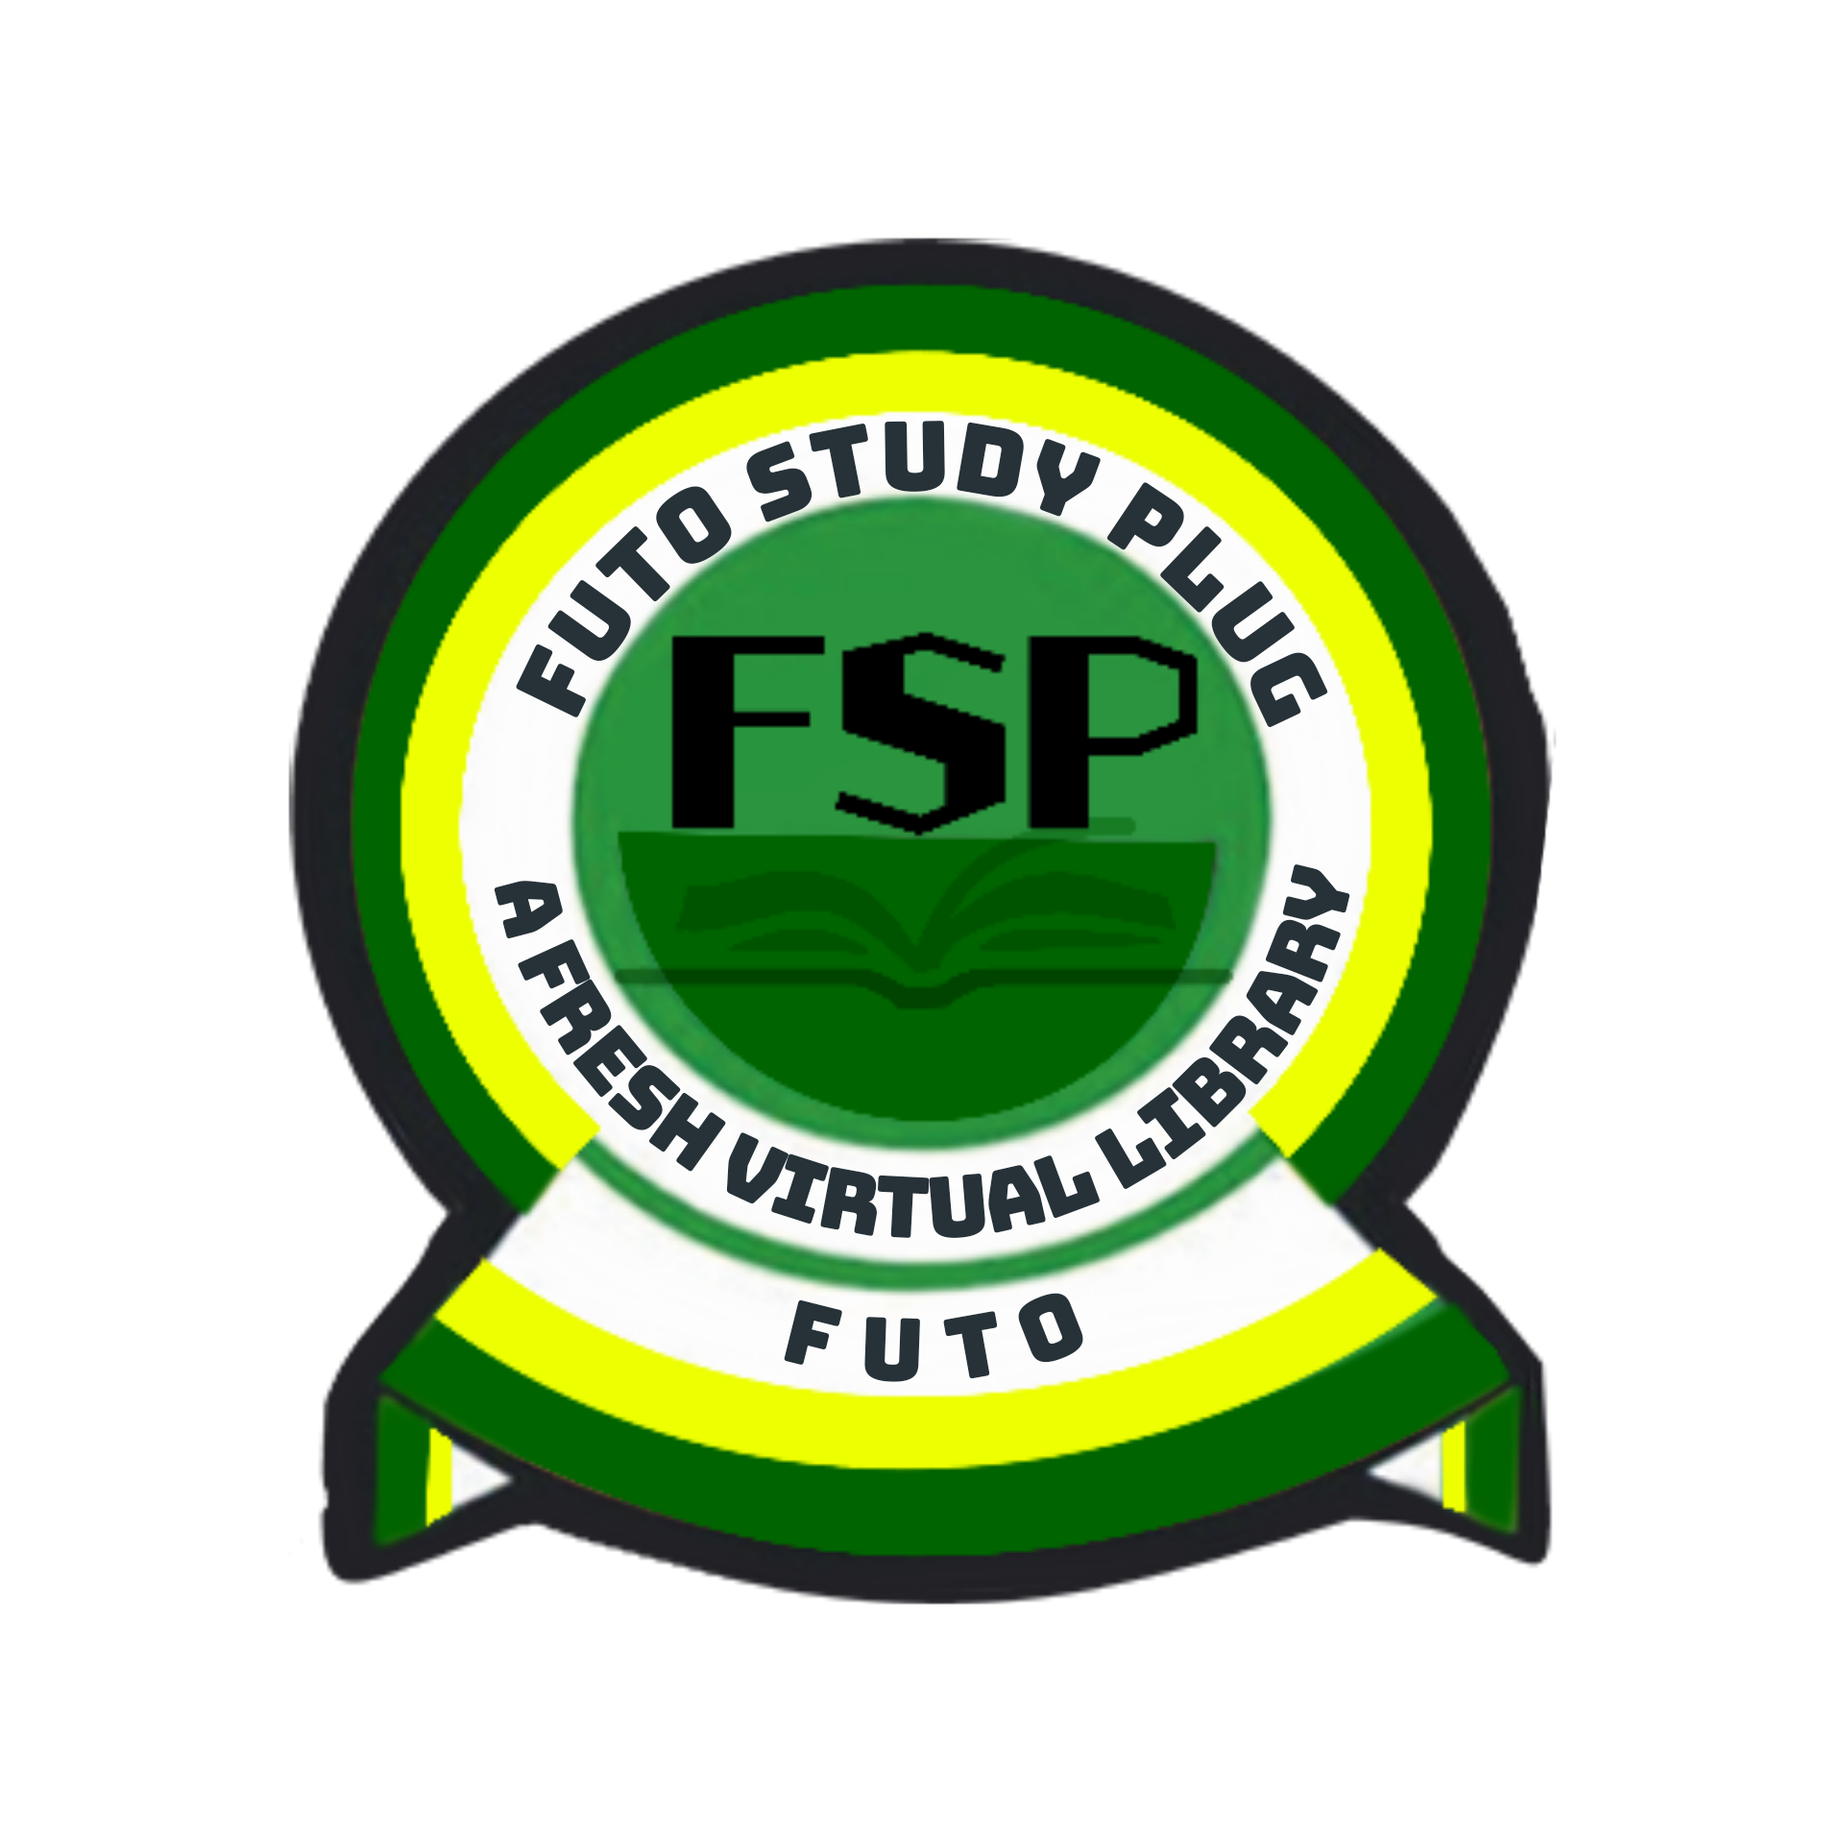
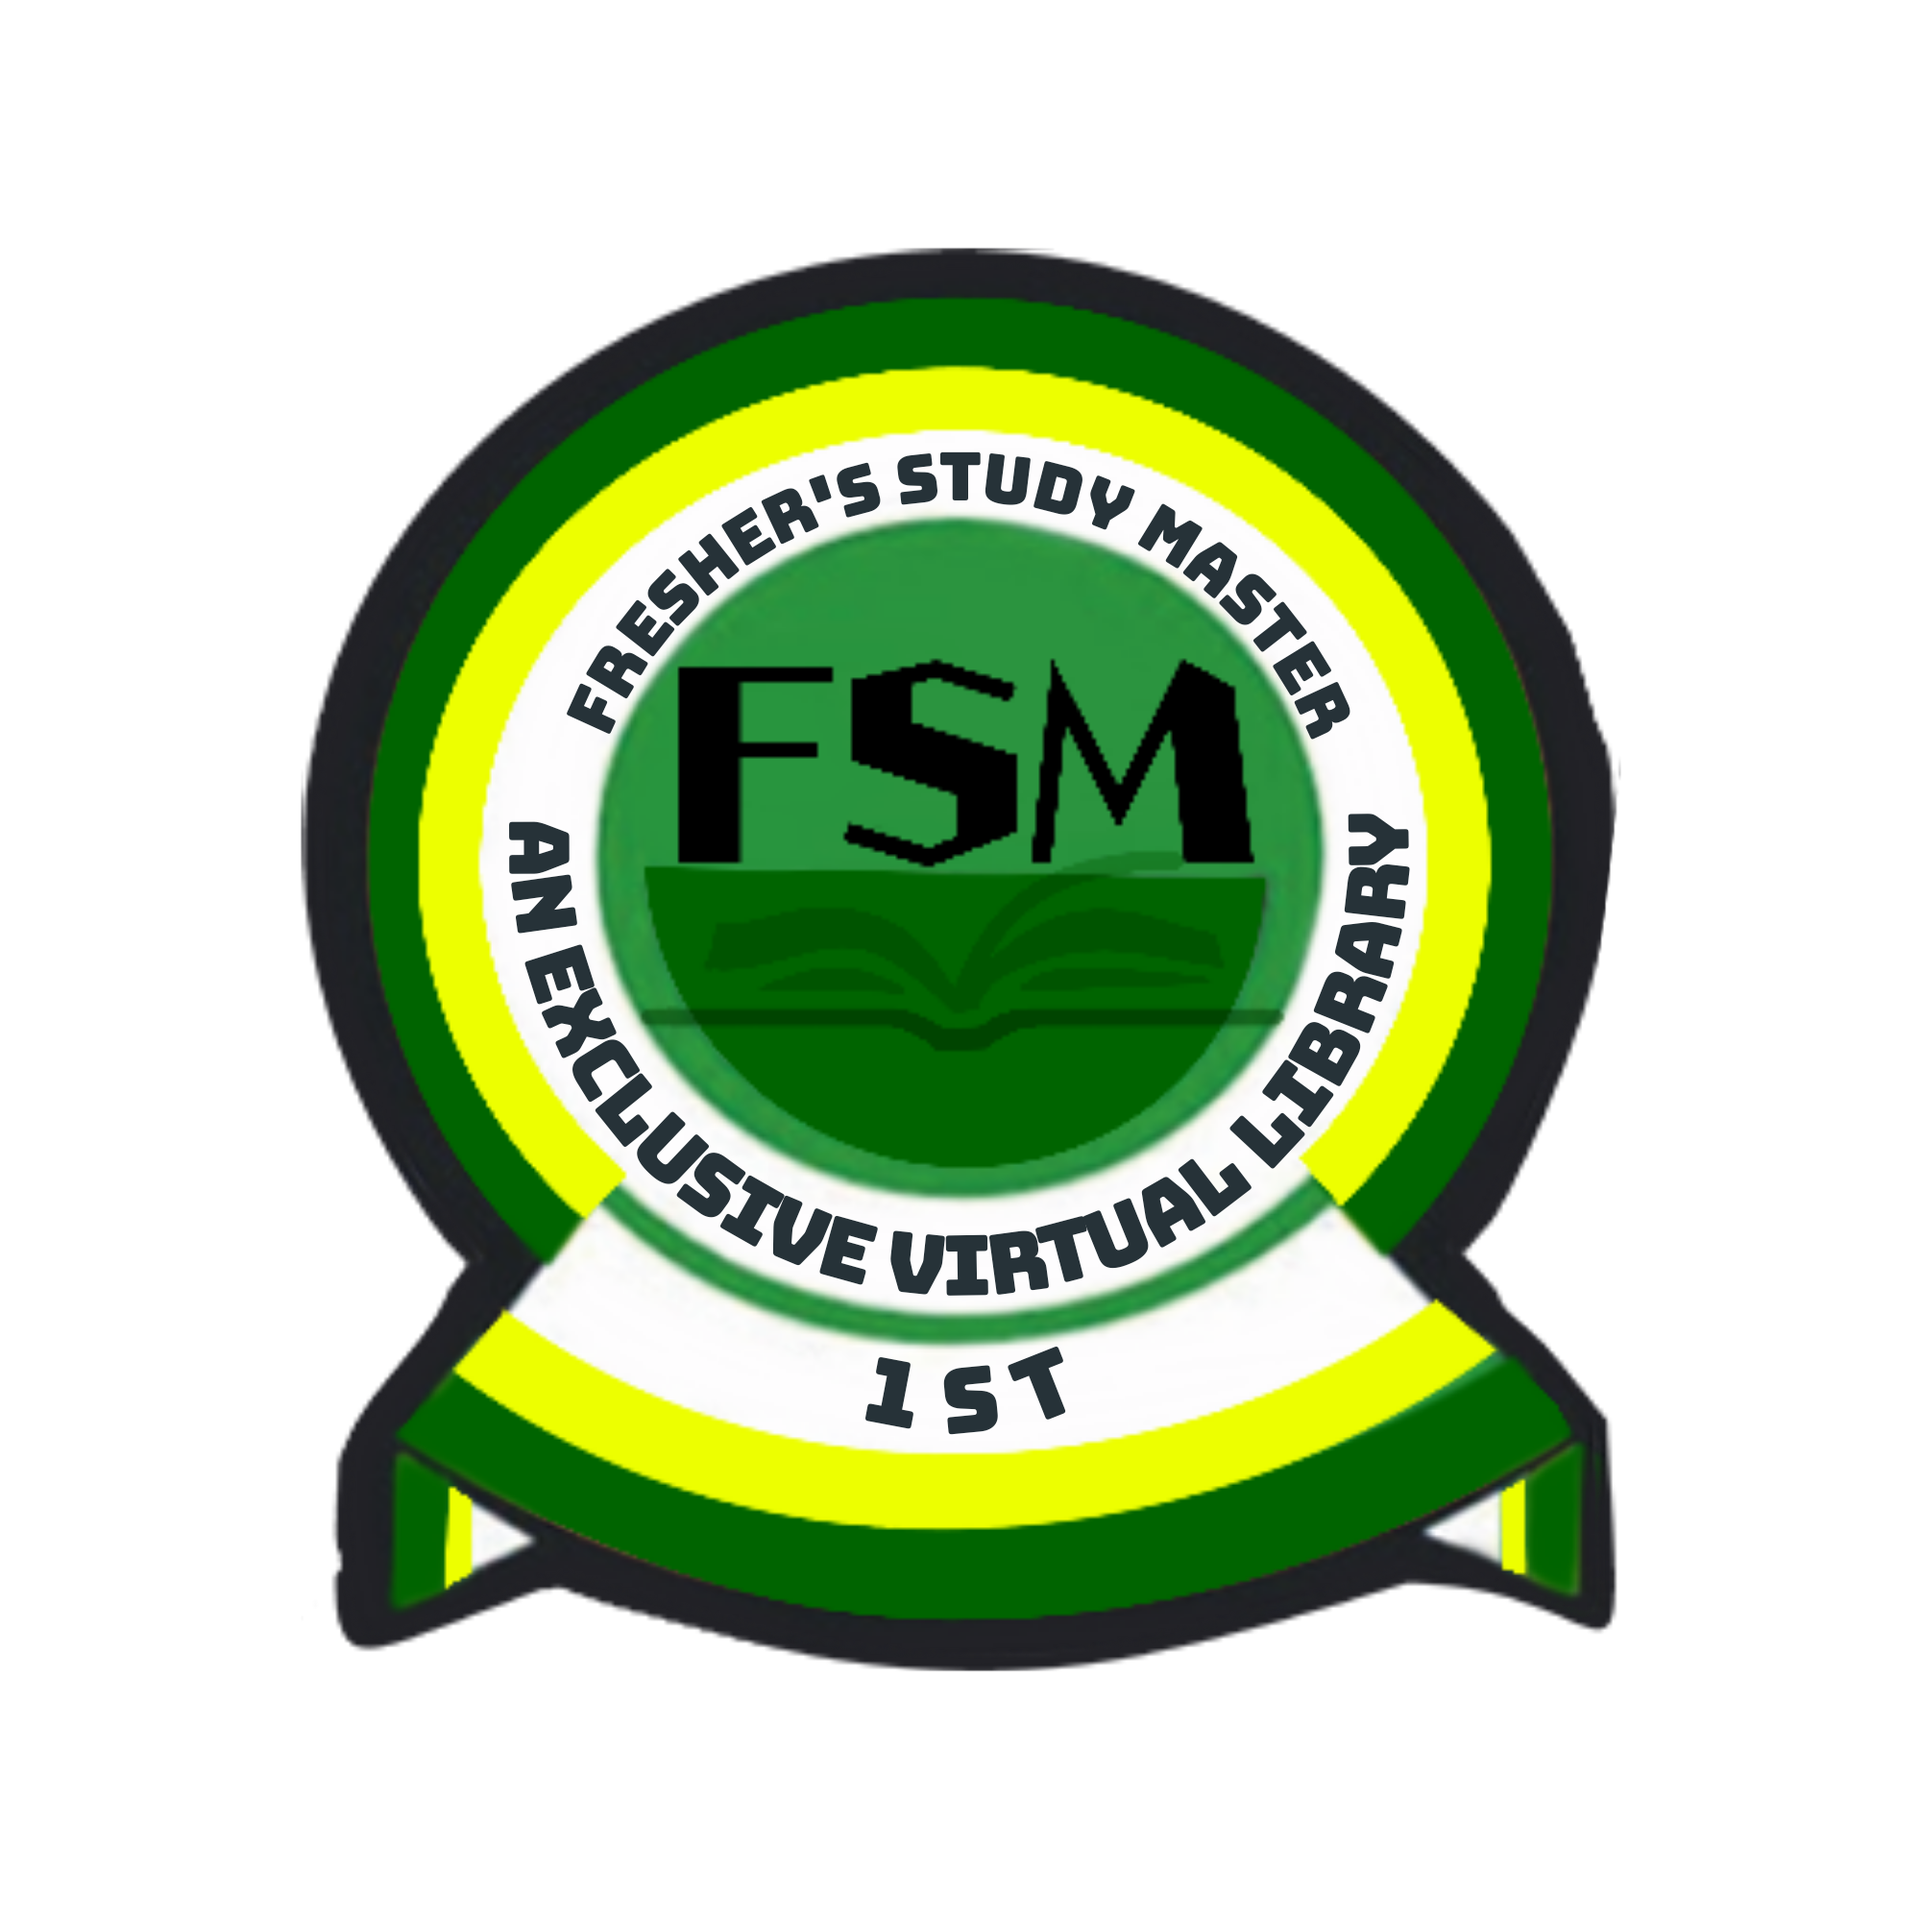
change web app url and FSP images to FSM

diff --git a/index.html b/index.html
@@ -46,14 +46,14 @@
       <div class="buttons">
         <div class="download-btn">
           <a
-            href="https://github.com/needlinkdev/fsp_official_site/releases/download/v1.0.0/FUTO_Study_Plug.apk"
+            href="https://github.com/needlinkdev/fsm_official_site/releases/download/v1.0.0/FUTO_Study_Plug.apk"
             download="Freshers_Study_Master.apk"
             >Download App <i class="fas fa-download"></i
           ></a>
         </div>
         <div class="web-btn">
           <a
-            href="https://needlinc.netlify.app"
+            href="https://needlinkdev.github.io/fsm_1st_sem_web_app/"
             target="_blank"
             rel="noopener noreferrer"
           >

diff --git a/README.md b/README.md
@@ -1,1 +1,1 @@
-# fsp_official_site
+# fsm_official_site
